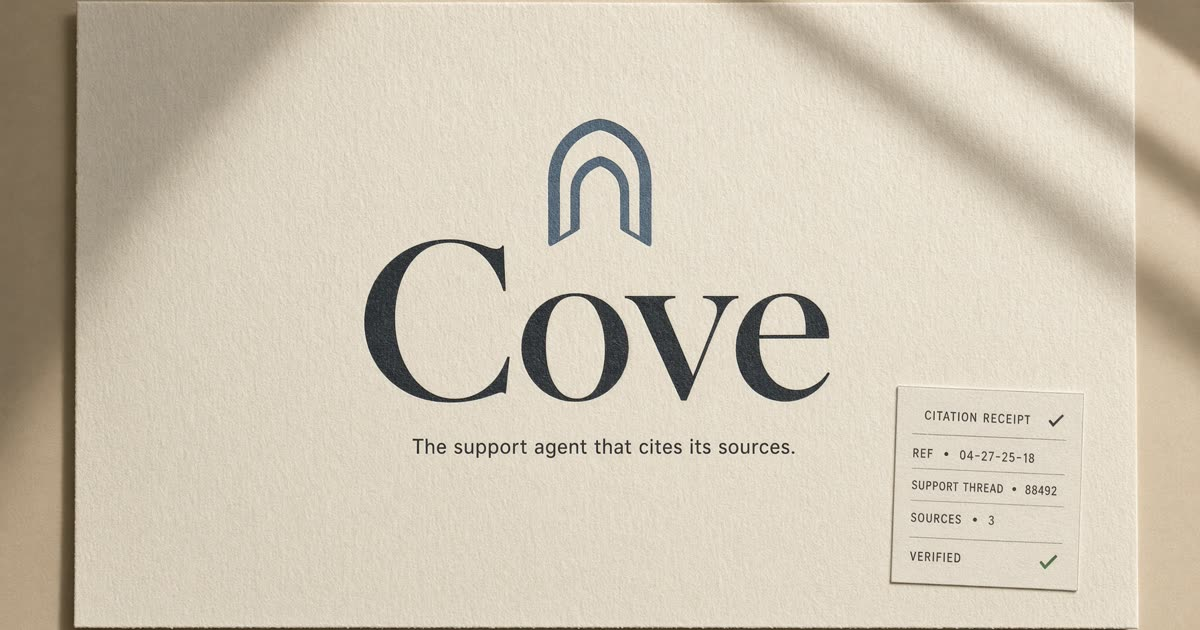
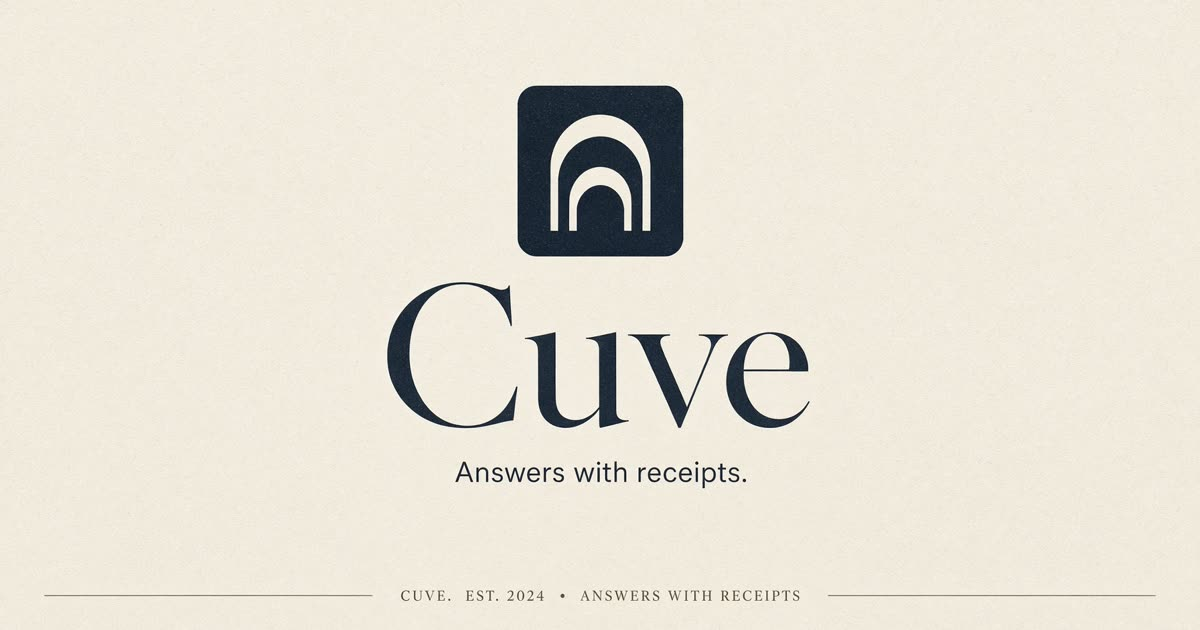
Rename product to Cuve.
Wordmark, seed agents, persist key, widget copy, and OG card now use Cuve.

diff --git a/src/lib/seed.ts b/src/lib/seed.ts
@@ -1,18 +1,18 @@
 import type { Agent, Conversation } from "./types";
 import { hoursAgo } from "./utils";
 
-export const COVE_ID = "cove";
+export const CUVE_ID = "cuve";
 export const NORTHLINE_ID = "northline";
 export const LUMEN_ID = "lumen";
 
 export const SEED_AGENTS: Agent[] = [
   {
-    id: COVE_ID,
-    name: "Cove",
-    company: "Cove",
+    id: CUVE_ID,
+    name: "Cuve",
+    company: "Cuve",
     role: "guide",
     tagline: "The support agent that cites its sources.",
-    greeting: "Hi, I'm Cove. Ask how I work, what I cost, or what happens when I don't know.",
+    greeting: "Hi, I'm Cuve. Ask how I work, what I cost, or what happens when I don't know.",
     suggested: [
       "How does grounding work?",
       "What's in the Studio plan?",
@@ -25,37 +25,37 @@ export const SEED_AGENTS: Agent[] = [
     widget: {
       position: "right",
       palette: "ink",
-      bubble: "Ask Cove",
+      bubble: "Ask Cuve",
       showBranding: true,
     },
     knowledge: [
       {
         id: "c1",
         type: "doc",
-        title: "What Cove is",
+        title: "What Cuve is",
         content:
-          "Cove is a grounded support agent you train on your own FAQs, policies, products, and procedures. Every reply cites the passage it used. You test in a playground with a confidence score before the widget goes live. Inbox, lead capture, coverage checks, and a live widget studio ship on the Studio plan. If a question is not in your sources, Cove hands off instead of guessing.",
+          "Cuve is a grounded support agent you train on your own FAQs, policies, products, and procedures. Every reply cites the passage it used. You test in a playground with a confidence score before the widget goes live. Inbox, lead capture, coverage checks, and a live widget studio ship on the Studio plan. If a question is not in your sources, Cuve hands off instead of guessing.",
       },
       {
         id: "c2",
         type: "faq",
         title: "How grounding works",
         content:
-          "Before answering, Cove retrieves the most relevant knowledge passages and only writes from those. Cited titles and excerpts appear under the reply. In Strict mode, a low-confidence question never reaches the model. Cove uses your handoff line instead. Assist mode still requires a source, but the bar is a little lower. Confidence is the retrieval score of the best matching passage, shown as a percentage.",
+          "Before answering, Cuve retrieves the most relevant knowledge passages and only writes from those. Cited titles and excerpts appear under the reply. In Strict mode, a low-confidence question never reaches the model. Cuve uses your handoff line instead. Assist mode still requires a source, but the bar is a little lower. Confidence is the retrieval score of the best matching passage, shown as a percentage.",
       },
       {
         id: "c3",
         type: "policy",
         title: "Plans and pricing",
         content:
-          "Cove has three plans. Free: 1 agent, playground, citations, 50 knowledge items. Studio at $39/month: 5 agents, live widget, inbox, lead capture, coverage, 200 knowledge items. Company at $129/month: unlimited agents, analytics, human handoff, custom palette, no Cove badge on the widget. Annual billing is 20% off. There are no message credits and no per-reply multipliers. One visitor message equals one answer.",
+          "Cuve has three plans. Free: 1 agent, playground, citations, 50 knowledge items. Studio at $39/month: 5 agents, live widget, inbox, lead capture, coverage, 200 knowledge items. Company at $129/month: unlimited agents, analytics, human handoff, custom palette, no Cuve badge on the widget. Annual billing is 20% off. There are no message credits and no per-reply multipliers. One visitor message equals one answer.",
       },
       {
         id: "c4",
         type: "faq",
-        title: "Will Cove invent answers",
+        title: "Will Cuve invent answers",
         content:
-          "No. If a refund policy, price, or feature is not in knowledge, Cove refuses and offers a handoff. Citations only appear when a real passage was used. Strict grounding skips the language model entirely when retrieval is below the bar, so a missing policy cannot be written from thin air.",
+          "No. If a refund policy, price, or feature is not in knowledge, Cuve refuses and offers a handoff. Citations only appear when a real passage was used. Strict grounding skips the language model entirely when retrieval is below the bar, so a missing policy cannot be written from thin air.",
       },
       {
         id: "c5",
@@ -69,7 +69,7 @@ export const SEED_AGENTS: Agent[] = [
         type: "policy",
         title: "Data and models",
         content:
-          "Cove answers with Grok. Customer knowledge is sent only as retrieval context for that turn and is not used to train foundation models. Conversations stay in your workspace. You can delete an agent and all of its knowledge at any time. Enterprise data processing terms are available on the Company plan.",
+          "Cuve answers with Grok. Customer knowledge is sent only as retrieval context for that turn and is not used to train foundation models. Conversations stay in your workspace. You can delete an agent and all of its knowledge at any time. Enterprise data processing terms are available on the Company plan.",
       },
     ],
     createdAt: hoursAgo(24 * 40),
@@ -128,9 +128,9 @@ export const SEED_AGENTS: Agent[] = [
       {
         id: "n5",
         type: "product",
-        title: "Cove Cap",
+        title: "Trail Cap",
         content:
-          "The Cove Cap is unstructured organic cotton twill, $32, one size with a metal slide. Colors: Fog and Ink. Not currently offered in kids' sizing.",
+          "The Trail Cap is unstructured organic cotton twill, $32, one size with a metal slide. Colors: Fog and Ink. Not currently offered in kids' sizing.",
       },
       {
         id: "n6",
@@ -339,7 +339,7 @@ export const SEED_CONVERSATIONS: Conversation[] = [
   },
   {
     id: "conv_c1",
-    agentId: COVE_ID,
+    agentId: CUVE_ID,
     visitor: "Alex Rivera",
     channel: "playground",
     status: "resolved",
@@ -355,11 +355,11 @@ export const SEED_CONVERSATIONS: Conversation[] = [
         id: "m10",
         role: "assistant",
         content:
-          "No. If a refund policy isn't in knowledge, Cove says it doesn't know and offers a handoff instead of making one up. In Strict mode the model is not even called. Citations only appear when a real passage was used.",
+          "No. If a refund policy isn't in knowledge, Cuve says it doesn't know and offers a handoff instead of making one up. In Strict mode the model is not even called. Citations only appear when a real passage was used.",
         citations: [
           {
             title: "How grounding works",
-            excerpt: "If a refund policy, price, or feature is not in knowledge, Cove refuses.",
+            excerpt: "If a refund policy, price, or feature is not in knowledge, Cuve refuses.",
             type: "faq",
           },
         ],
@@ -372,7 +372,7 @@ export const SEED_CONVERSATIONS: Conversation[] = [
   },
   {
     id: "conv_c2",
-    agentId: COVE_ID,
+    agentId: CUVE_ID,
     visitor: "Sam Okonkwo",
     channel: "playground",
     status: "handoff",

diff --git a/src/styles.css b/src/styles.css
@@ -108,7 +108,7 @@
   font-family: var(--font-display);
 }
 
-.cove-select {
+.cuve-select {
   display: flex;
   height: 2.75rem;
   width: 100%;
@@ -124,7 +124,7 @@
 .stagger-in > * {
   opacity: 0;
   transform: translateY(10px);
-  animation: cove-in 500ms var(--ease-out) forwards;
+  animation: cuve-in 500ms var(--ease-out) forwards;
 }
 .stagger-in > *:nth-child(1) {
   animation-delay: 40ms;
@@ -142,14 +142,14 @@
   animation-delay: 280ms;
 }
 
-@keyframes cove-in {
+@keyframes cuve-in {
   to {
     opacity: 1;
     transform: translateY(0);
   }
 }
 
-@keyframes cove-pulse {
+@keyframes cuve-pulse {
   0%,
   100% {
     opacity: 0.35;
@@ -160,7 +160,7 @@
 }
 
 .typing-dot {
-  animation: cove-pulse 1s ease-in-out infinite;
+  animation: cuve-pulse 1s ease-in-out infinite;
 }
 .typing-dot:nth-child(2) {
   animation-delay: 140ms;
@@ -187,7 +187,7 @@
   }
 }
 
-.cove-widget[data-palette="ink"] {
+.cuve-widget[data-palette="ink"] {
   --w-bg: #1c2430;
   --w-fg: #f3f1ec;
   --w-muted: #c4c0b6;
@@ -196,7 +196,7 @@
   --w-user: #3e5a6e;
   --w-user-fg: #f4f1ec;
 }
-.cove-widget[data-palette="slate"] {
+.cuve-widget[data-palette="slate"] {
   --w-bg: #3e5a6e;
   --w-fg: #f4f1ec;
   --w-muted: #d5dde3;
@@ -205,7 +205,7 @@
   --w-user: #1c2430;
   --w-user-fg: #f3f1ec;
 }
-.cove-widget[data-palette="forest"] {
+.cuve-widget[data-palette="forest"] {
   --w-bg: #2f5d45;
   --w-fg: #f3f1ec;
   --w-muted: #d4e0d8;
@@ -214,7 +214,7 @@
   --w-user: #1c2430;
   --w-user-fg: #f3f1ec;
 }
-.cove-widget[data-palette="sand"] {
+.cuve-widget[data-palette="sand"] {
   --w-bg: #6a655c;
   --w-fg: #f3f1ec;
   --w-muted: #e4dfd6;

diff --git a/src/routes/index.tsx b/src/routes/index.tsx
@@ -10,7 +10,7 @@ import { cn } from "@/lib/utils";
 
 export const Route = createFileRoute("/")({ component: Home });
 
-const cove = SEED_AGENTS[0];
+const cuve = SEED_AGENTS[0];
 const northline = SEED_AGENTS[1];
 
 function Home() {
@@ -42,7 +42,7 @@ function Hero() {
             Answers with receipts.
           </h1>
           <p className="mt-6 max-w-md text-base leading-relaxed text-muted-foreground sm:text-lg">
-            Train Cove on FAQs, policies, products, and procedures. Every reply cites the passage it used. If it
+            Train Cuve on FAQs, policies, products, and procedures. Every reply cites the passage it used. If it
             cannot cite, it hands off. The model is never asked to invent.
           </p>
           <div className="mt-8 flex flex-wrap gap-3">
@@ -61,7 +61,7 @@ function Hero() {
           </p>
         </div>
         <div className="h-[min(560px,70vh)] min-h-[420px]">
-          <ChatPanel agent={cove} channel="playground" className="h-full" />
+          <ChatPanel agent={cuve} channel="playground" className="h-full" />
         </div>
       </div>
     </section>
@@ -240,7 +240,7 @@ function Close() {
         Only answer what you can stand behind.
       </h2>
       <p className="mx-auto mt-4 max-w-md text-muted-foreground">
-        Open a seeded agent (Northline apparel, Lumen Cloud, or Cove itself) and ask it something it should
+        Open a seeded agent (Northline apparel, Lumen Cloud, or Cuve itself) and ask it something it should
         know. Then ask something it should not.
       </p>
       <Button size="lg" className="mt-8" asChild>

diff --git a/src/components/receipt-demo.tsx b/src/components/receipt-demo.tsx
@@ -9,7 +9,7 @@ export function ReceiptDemo() {
           Two replies. Only one is allowed to exist.
         </h2>
         <p className="mt-4 max-w-lg text-sm leading-relaxed text-muted-foreground">
-          Cove writes from a passage you uploaded, then shows that passage. If nothing clears the bar, the
+          Cuve writes from a passage you uploaded, then shows that passage. If nothing clears the bar, the
           model is not called. Visitors get a handoff, not a confident guess.
         </p>
         <div className="mt-10 grid gap-4 lg:grid-cols-2">
@@ -43,11 +43,11 @@ export function ReceiptDemo() {
           </article>
           <article className="rounded-2xl bg-background p-5 shadow-[var(--shadow-border)]">
             <p className="text-[11px] font-medium uppercase tracking-[0.18em] text-warning">Handoff</p>
-            <p className="mt-4 text-sm text-muted-foreground">Visitor · Cove</p>
+            <p className="mt-4 text-sm text-muted-foreground">Visitor · Cuve</p>
             <p className="mt-1 rounded-2xl rounded-br-md bg-primary px-3.5 py-2.5 text-sm text-primary-foreground">
               Do you have a store in Lisbon?
             </p>
-            <p className="mt-3 text-sm text-muted-foreground">Cove</p>
+            <p className="mt-3 text-sm text-muted-foreground">Cuve</p>
             <p className="mt-1 rounded-2xl rounded-bl-md bg-muted px-3.5 py-2.5 text-sm leading-relaxed">
               That isn’t in my sources, so I won’t invent it. Ask something I can cite, or I can connect you with a
               person.

diff --git a/src/components/widget-studio.tsx b/src/components/widget-studio.tsx
@@ -18,7 +18,7 @@ export function WidgetStudio({ agent }: { agent: Agent }) {
   const updateAgent = useStudio((s) => s.updateAgent);
   const conversations = useStudio((s) => s.conversations);
   const [copied, setCopied] = useState(false);
-  const snippet = `<script src="https://cove.example/widget.js" data-agent="${agent.id}" async></script>`;
+  const snippet = `<script src="https://cuve.example/widget.js" data-agent="${agent.id}" async></script>`;
   const rate = coverageRate(coverageFor(agent));
   const score = launchScore(launchChecks(agent, conversations));
   const warn = score < 100;
@@ -108,7 +108,7 @@ export function WidgetStudio({ agent }: { agent: Agent }) {
           onClick={() => patchWidget({ showBranding: !agent.widget.showBranding })}
           className="flex h-11 items-center justify-between rounded-xl bg-muted px-3 text-sm"
         >
-          <span>Cove badge</span>
+          <span>Cuve badge</span>
           <span
             className={cn(
               "relative h-6 w-10 rounded-full transition-colors duration-150",

diff --git a/src/components/chat-panel.tsx b/src/components/chat-panel.tsx
@@ -129,7 +129,7 @@ export function ChatPanel({ agent, channel, variant = "page", className }: Props
   return (
     <div
       className={cn(
-        "cove-widget flex min-h-0 flex-col overflow-hidden",
+        "cuve-widget flex min-h-0 flex-col overflow-hidden",
         isBubble ? "h-full" : "h-full rounded-2xl bg-card shadow-[var(--shadow-lift)]",
         className,
       )}
@@ -210,7 +210,7 @@ export function ChatPanel({ agent, channel, variant = "page", className }: Props
 
       {isBubble && agent.widget.showBranding ? (
         <p className="px-4 pb-1 text-center text-[10px] uppercase tracking-[0.16em] text-muted-foreground">
-          Powered by Cove
+          Powered by Cuve
         </p>
       ) : null}
 

diff --git a/src/routes/pricing.tsx b/src/routes/pricing.tsx
@@ -36,7 +36,7 @@ const plans = [
       "Analytics and topics",
       "Human handoff",
       "Custom palettes",
-      "Remove the Cove badge",
+      "Remove the Cuve badge",
       "SSO-ready workspace",
     ],
   },
@@ -52,7 +52,7 @@ function PricingPage() {
           One visitor message. One answer. No multipliers.
         </h1>
         <p className="mt-4 max-w-lg text-muted-foreground">
-          Cove does not meter replies. Annual billing is 20% off. This demo uses the monthly numbers.
+          Cuve does not meter replies. Annual billing is 20% off. This demo uses the monthly numbers.
         </p>
         <div className="mt-12 grid gap-4 lg:grid-cols-3">
           {plans.map((p) => (

diff --git a/src/routes/__root.tsx b/src/routes/__root.tsx
@@ -5,7 +5,7 @@ import { StudioHydrator } from "@/components/studio-hydrator";
 import { Toaster } from "sonner";
 import appCss from "../styles.css?url";
 
-const APP_NAME = "Cove";
+const APP_NAME = "Cuve";
 
 export const Route = createRootRoute({
   head: () => ({
@@ -16,7 +16,7 @@ export const Route = createRootRoute({
       {
         name: "description",
         content:
-          "Cove is the support agent that cites its sources. If it cannot cite, it hands off.",
+          "Cuve is the support agent that cites its sources. If it cannot cite, it hands off.",
       },
       { name: "theme-color", content: "#F3F1EC" },
     ],

diff --git a/src/components/retrieval-inspector.tsx b/src/components/retrieval-inspector.tsx
@@ -53,7 +53,7 @@ export function RetrievalInspector({ agent }: { agent: Agent }) {
             <p className="font-medium">Would refuse, not invent.</p>
             <p className="mt-1 text-muted-foreground">
               Nothing in knowledge clears the {agent.grounding === "assist" ? "assist" : "strict"} bar.
-              Cove will send the handoff line
+              Cuve will send the handoff line
               {agent.grounding === "strict" ? " without calling the model" : ""}.
             </p>
           </div>

diff --git a/src/components/knowledge-editor.tsx b/src/components/knowledge-editor.tsx
@@ -148,7 +148,7 @@ export function KnowledgeEditor({ agent }: { agent: Agent }) {
                     onChange={(e) =>
                       updateKnowledge(agent.id, selected.id, { type: e.target.value as KnowledgeType })
                     }
-                    className="cove-select"
+                    className="cuve-select"
                   >
                     {KNOWLEDGE_TYPES.map((t) => (
                       <option key={t} value={t}>

diff --git a/src/components/logo.tsx b/src/components/logo.tsx
@@ -31,7 +31,7 @@ export function Logo({ className, wordmark = true }: { className?: string; wordm
     <span className={cn("inline-flex items-center gap-2", className)}>
       <LogoMark />
       {wordmark ? (
-        <span className="font-display text-lg font-medium tracking-tight text-foreground">Cove</span>
+        <span className="font-display text-lg font-medium tracking-tight text-foreground">Cuve</span>
       ) : null}
     </span>
   );

diff --git a/src/components/widget-bubble.tsx b/src/components/widget-bubble.tsx
@@ -18,7 +18,7 @@ export function WidgetBubble({
 
   return (
     <div
-      className={cn("cove-widget pointer-events-none absolute inset-0", className)}
+      className={cn("cuve-widget pointer-events-none absolute inset-0", className)}
       data-palette={agent.widget.palette}
     >
       <div
